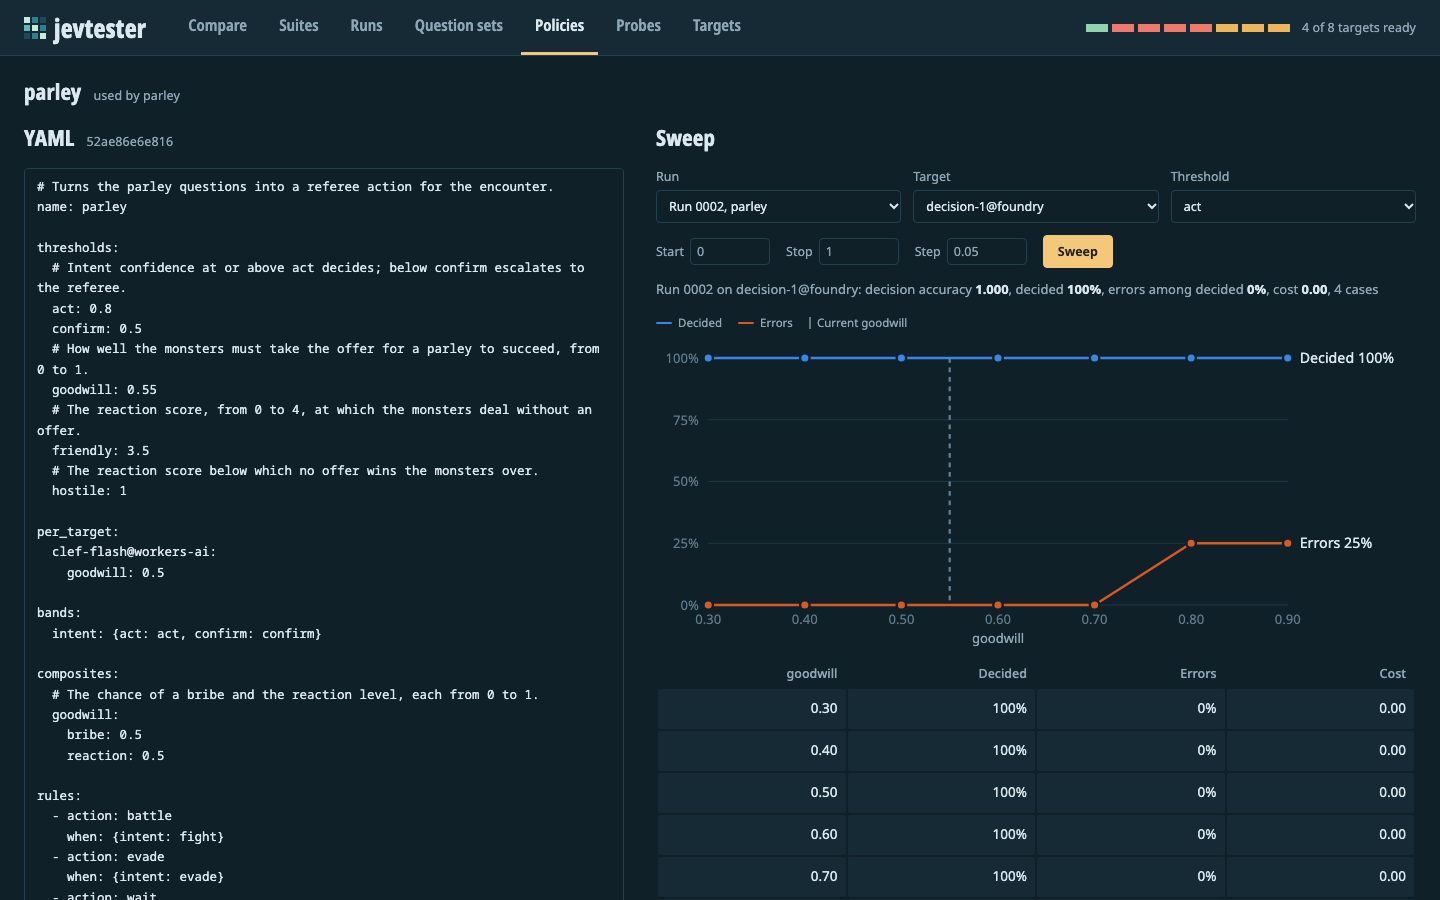
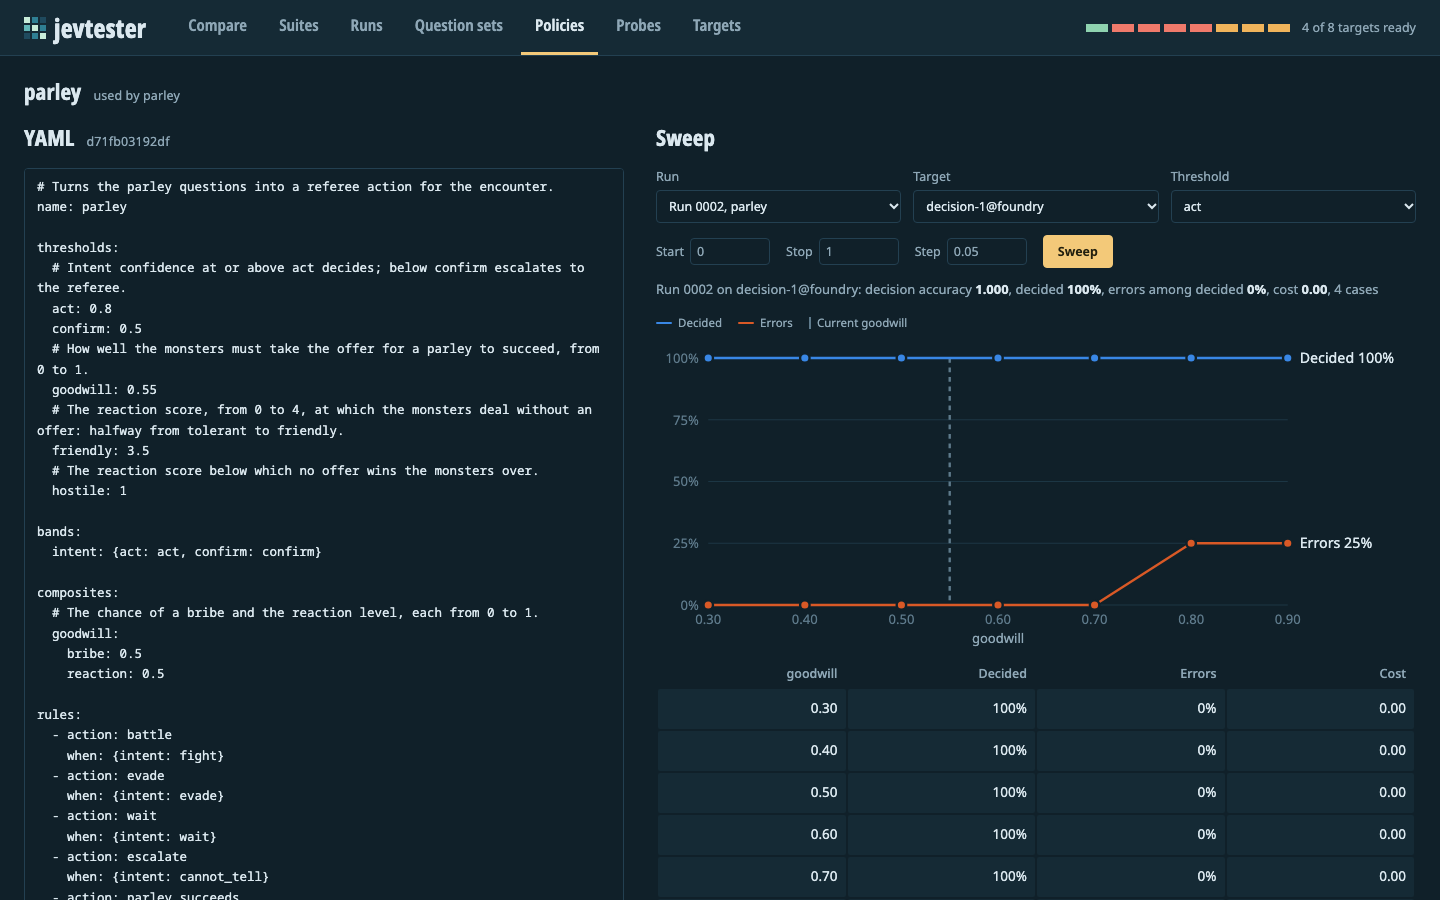
Compare targets under one set of parley policy values
The parley policy gave Clef-flash on Workers AI its own goodwill value.
A value for one target changes what that target's decision metrics
measure, so the policy no longer has one. Re-applying the policy to the
48-case runs gives the same decisions with or without it.

The friendly threshold stays at 3.5, halfway from tolerant to friendly,
and its comment now says so. A value fitted to the targets' scores
would favor the targets it came from. Concepts explains both points.
The API fixtures and the policy screenshot show the new policy.

diff --git a/tests/test_policy.py b/tests/test_policy.py
@@ -68,8 +68,7 @@ def answers(
 def test_the_repository_policy_is_valid() -> None:
     parsed = parse_policy(POLICY_TEXT, "parley")
     assert parsed.actions == ["battle", "evade", "wait", "escalate", "parley_succeeds", "parley_fails"]
-    assert parsed.threshold("goodwill", "clef-flash@workers-ai") == 0.5
-    assert parsed.threshold("goodwill", "decision-1@foundry") == 0.55
+    assert parsed.per_target == {}, "The repository policy compares targets, so every target uses the same values."
 
 
 @pytest.mark.parametrize("name", ["parley", "parley-bench"])

diff --git a/docs/how-to.md b/docs/how-to.md
@@ -324,10 +324,6 @@ thresholds:
   friendly: 3.5
   hostile: 1
 
-per_target:
-  clef-flash@workers-ai:
-    goodwill: 0.5
-
 bands:
   intent: {act: act, confirm: confirm}
 
@@ -362,7 +358,7 @@ costs:
 
 It works like this:
 
-1. `thresholds` names five numbers. `per_target` gives Clef-flash on Workers AI a different `goodwill` value, because probabilities differ between models.
+1. `thresholds` names five numbers. Every target uses the same values, so the decisions compare targets on equal terms. [Thresholds](concepts.md#thresholds) explains how to give one target its own value, and what that changes.
 2. The `intent` band escalates when the intent's confidence is below `confirm` (0.5). Between 0.5 and `act` (0.8), the policy acts and marks the decision for confirmation.
 3. The `goodwill` composite adds half the probability of a bribe and half the reaction score divided by its top level (4), so it runs from 0 to 1.
 4. The rules are checked in order. A parley succeeds when the reaction score is at least `friendly`, so friendly monsters deal without an offer. It also succeeds when `goodwill` is at least the `goodwill` threshold and the reaction score is at least `hostile`, so an offer can't win over monsters that will attack now. Otherwise the next rule makes it fail.

diff --git a/docs/concepts.md b/docs/concepts.md
@@ -216,6 +216,10 @@ A policy can't run code. Its conditions are data.
 
 Probabilities differ between models, so a threshold that works for one model may not work for another. A policy can set a threshold's value for one target under `per_target`.
 
+A value for one target changes what its decision metrics measure. With shared values, a model whose scores run high or low makes more wrong decisions, and the metrics show it. With a value tuned for each target, the metrics show only how well each model ranks the cases. Compare targets under the same policy values. Set those values from what the questions' answers mean, like halfway between two score levels, not from the targets' scores, which would favor the targets they came from.
+
+A threshold chosen on a set of cases fits those cases better than new ones, so the error rate on them is lower than you'd get in use. To measure a value, choose it from one run, then check it on cases the choice didn't use.
+
 ### Bands
 
 A *band* sets two confidence levels for a question, `act` and `confirm`:

diff --git a/docs/reference/suite-format.md b/docs/reference/suite-format.md
@@ -191,14 +191,10 @@ thresholds:
   confirm: 0.5
   # How well the monsters must take the offer for a parley to succeed, from 0 to 1.
   goodwill: 0.55
-  # The reaction score, from 0 to 4, at which the monsters deal without an offer.
+  # The reaction score, from 0 to 4, at which the monsters deal without an offer: halfway from tolerant to friendly.
   friendly: 3.5
   # The reaction score below which no offer wins the monsters over.
   hostile: 1
-
-per_target:
-  clef-flash@workers-ai:
-    goodwill: 0.5
 
 bands:
   intent: {act: act, confirm: confirm}
